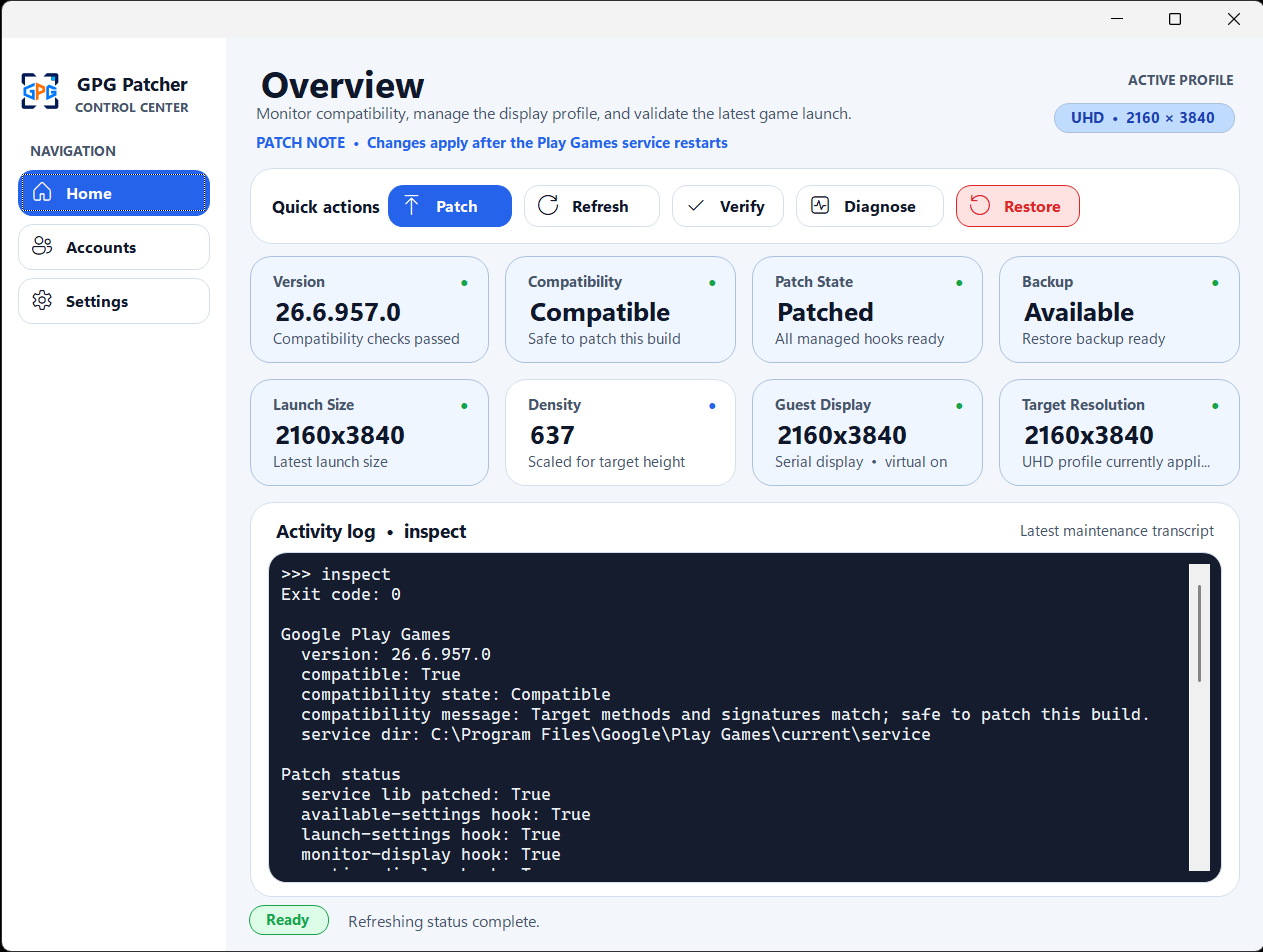
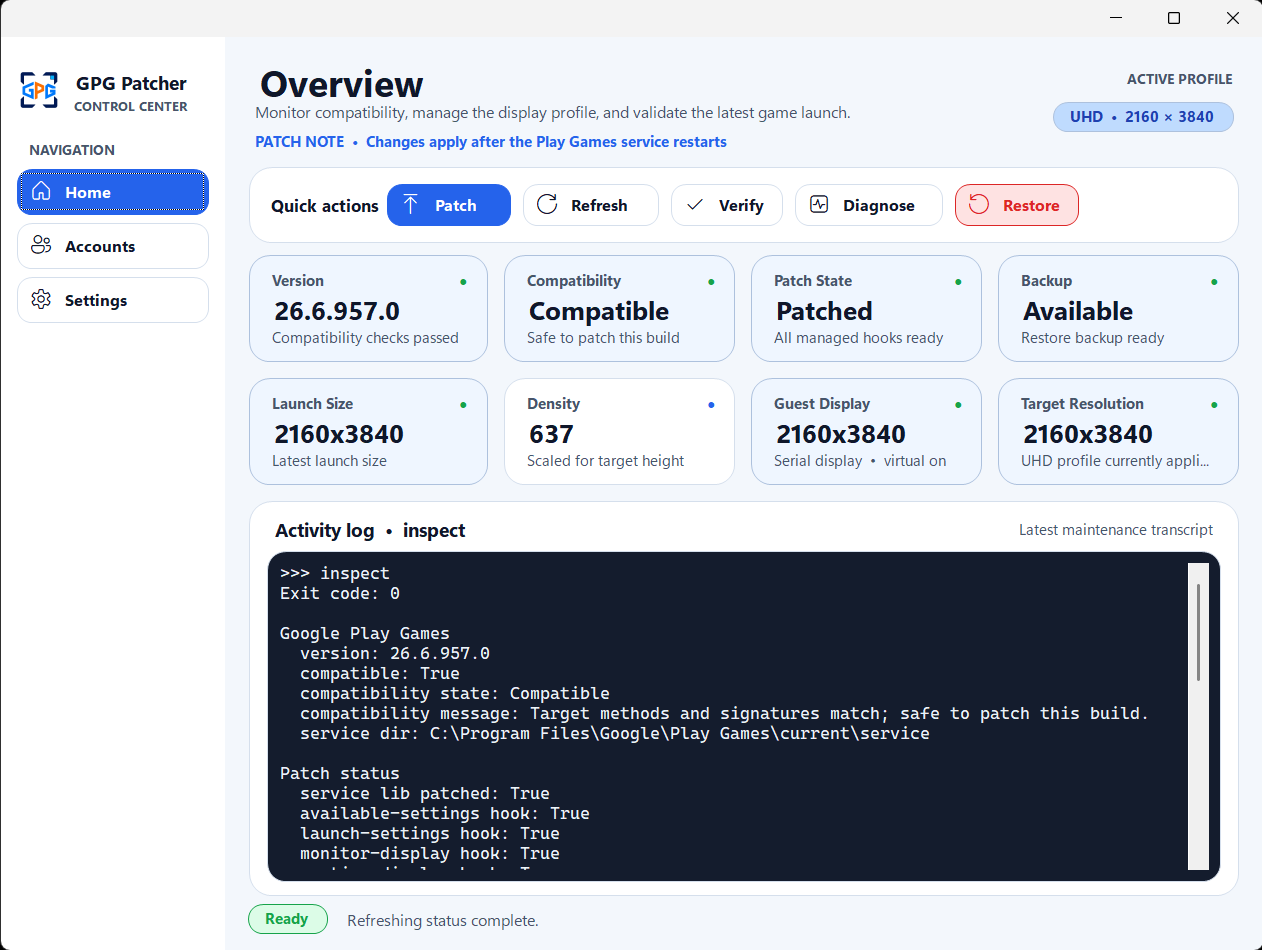
Clean README screenshot framing

diff --git a/README.md b/README.md
@@ -41,7 +41,7 @@ GPG Patcher is a Windows desktop utility for Google Play Games installations whe
 The Accounts experience reads the real local Play Games instance order and can launch one exact account using its stable Android library ID—no OCR, numbered placeholder slots, or account-picker automation.
 
 <p align="center">
-  <img src="Resource/Interface.png" alt="GPG Patcher Overview with Accounts navigation" width="1263" height="952" />
+  <img src="Resource/Interface.png" alt="GPG Patcher Overview with Accounts navigation" width="1262" height="950" />
 </p>
 
 <table>